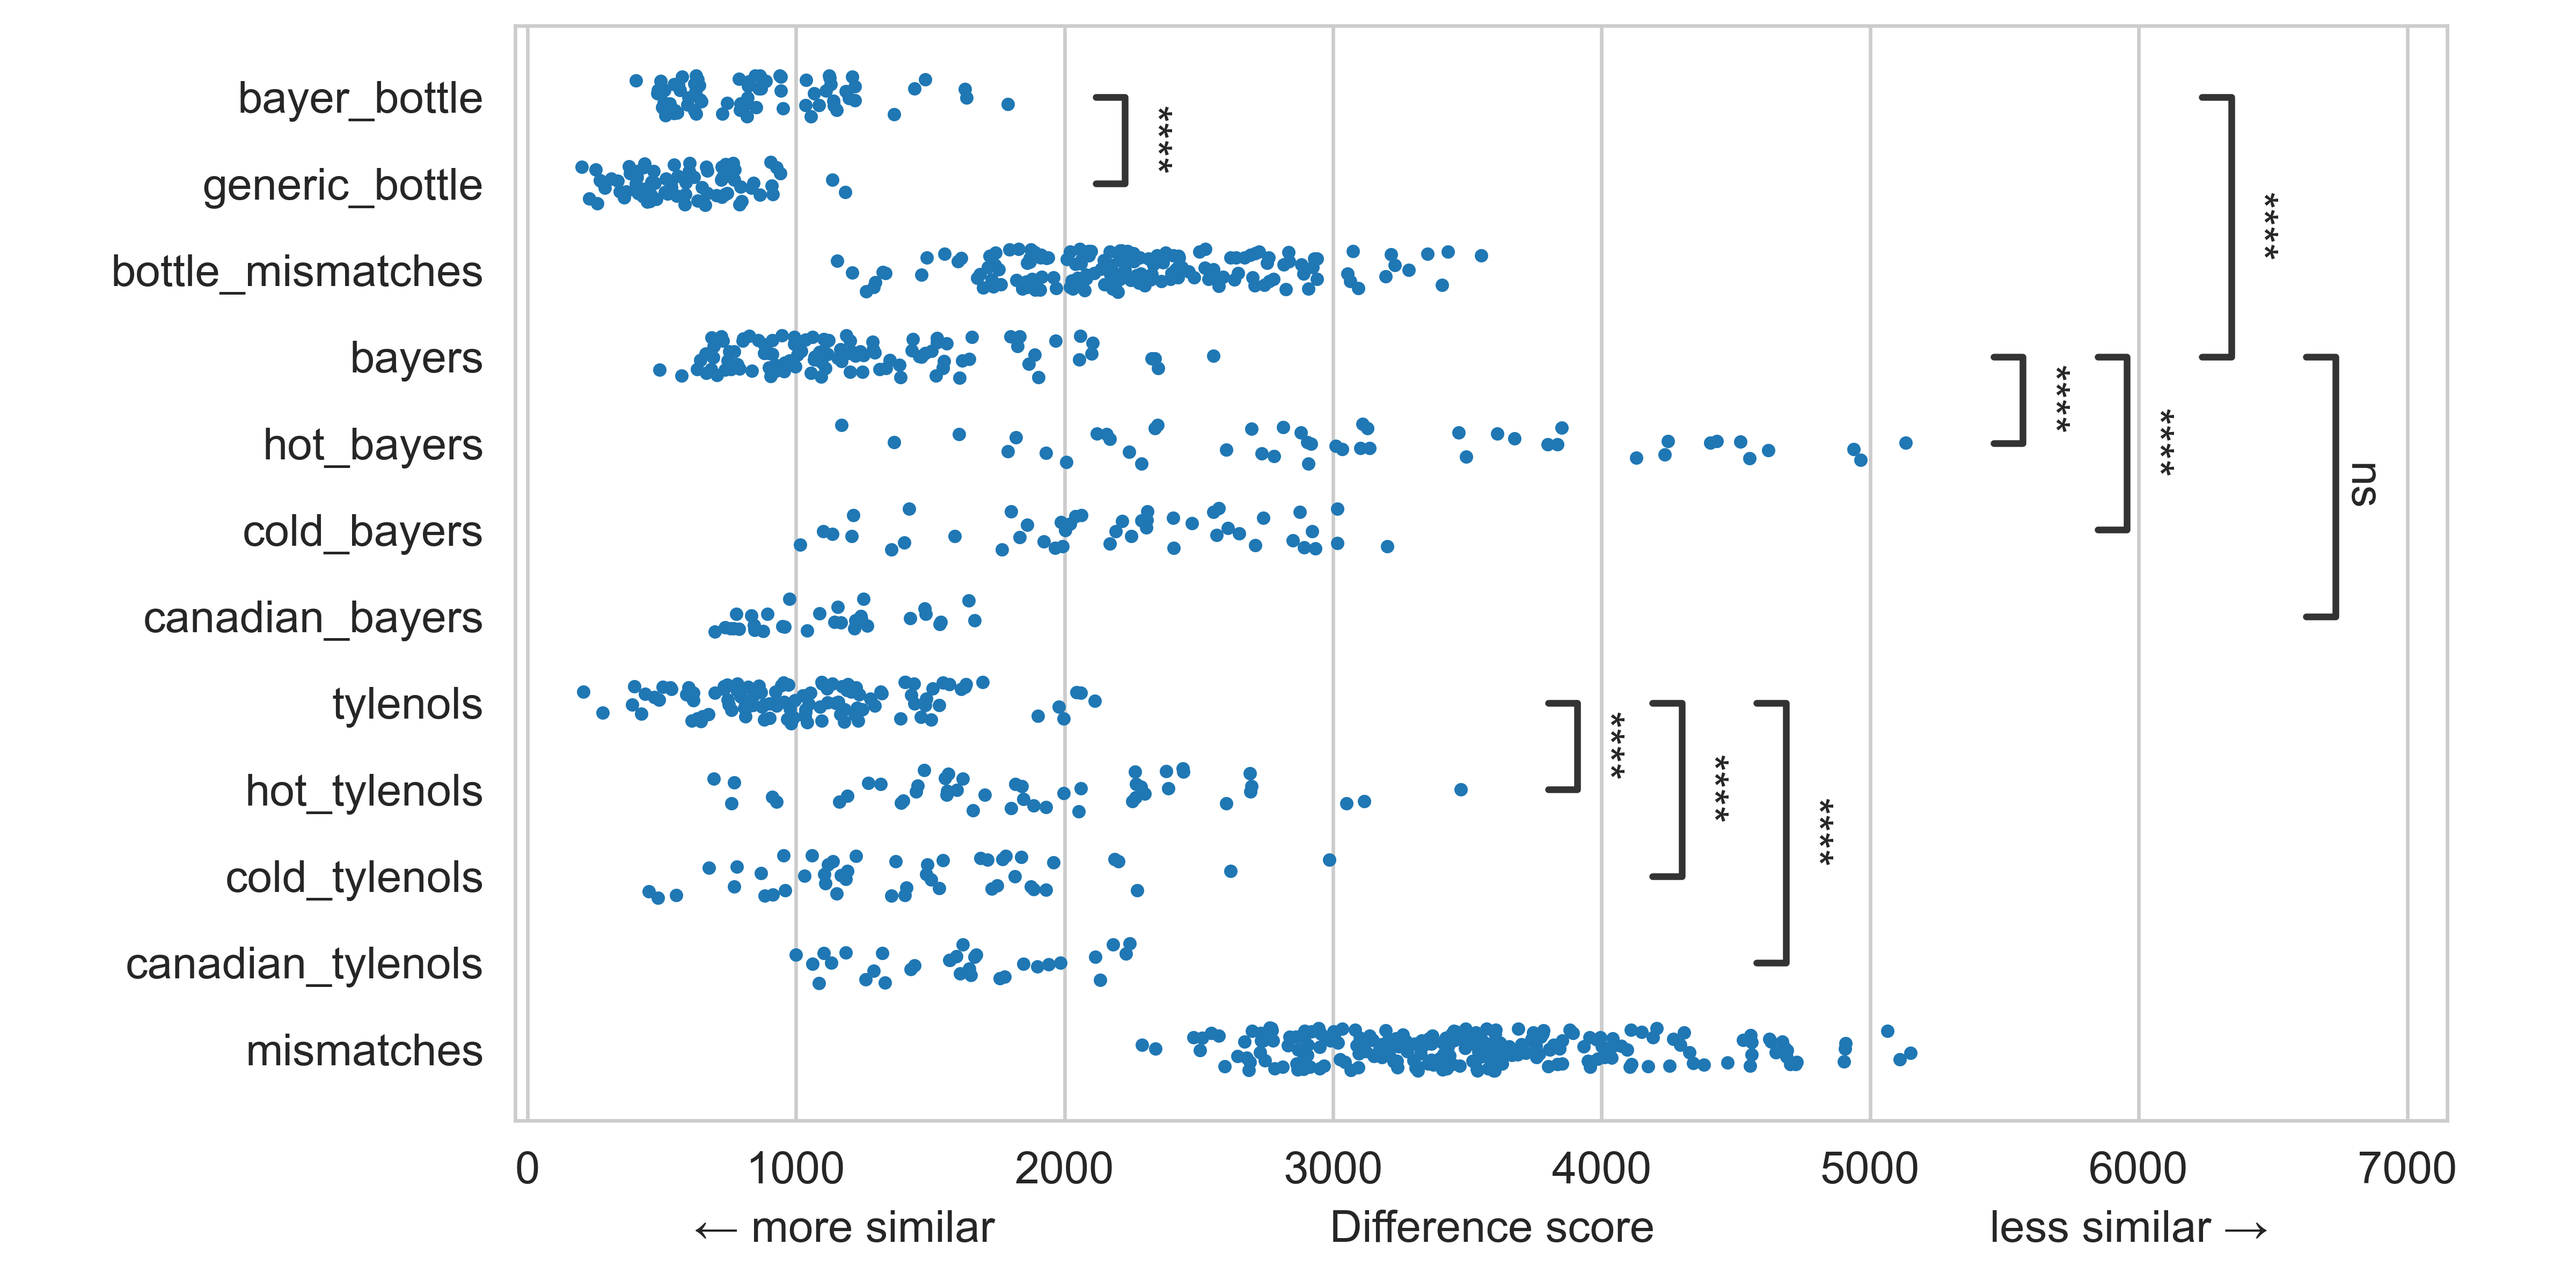
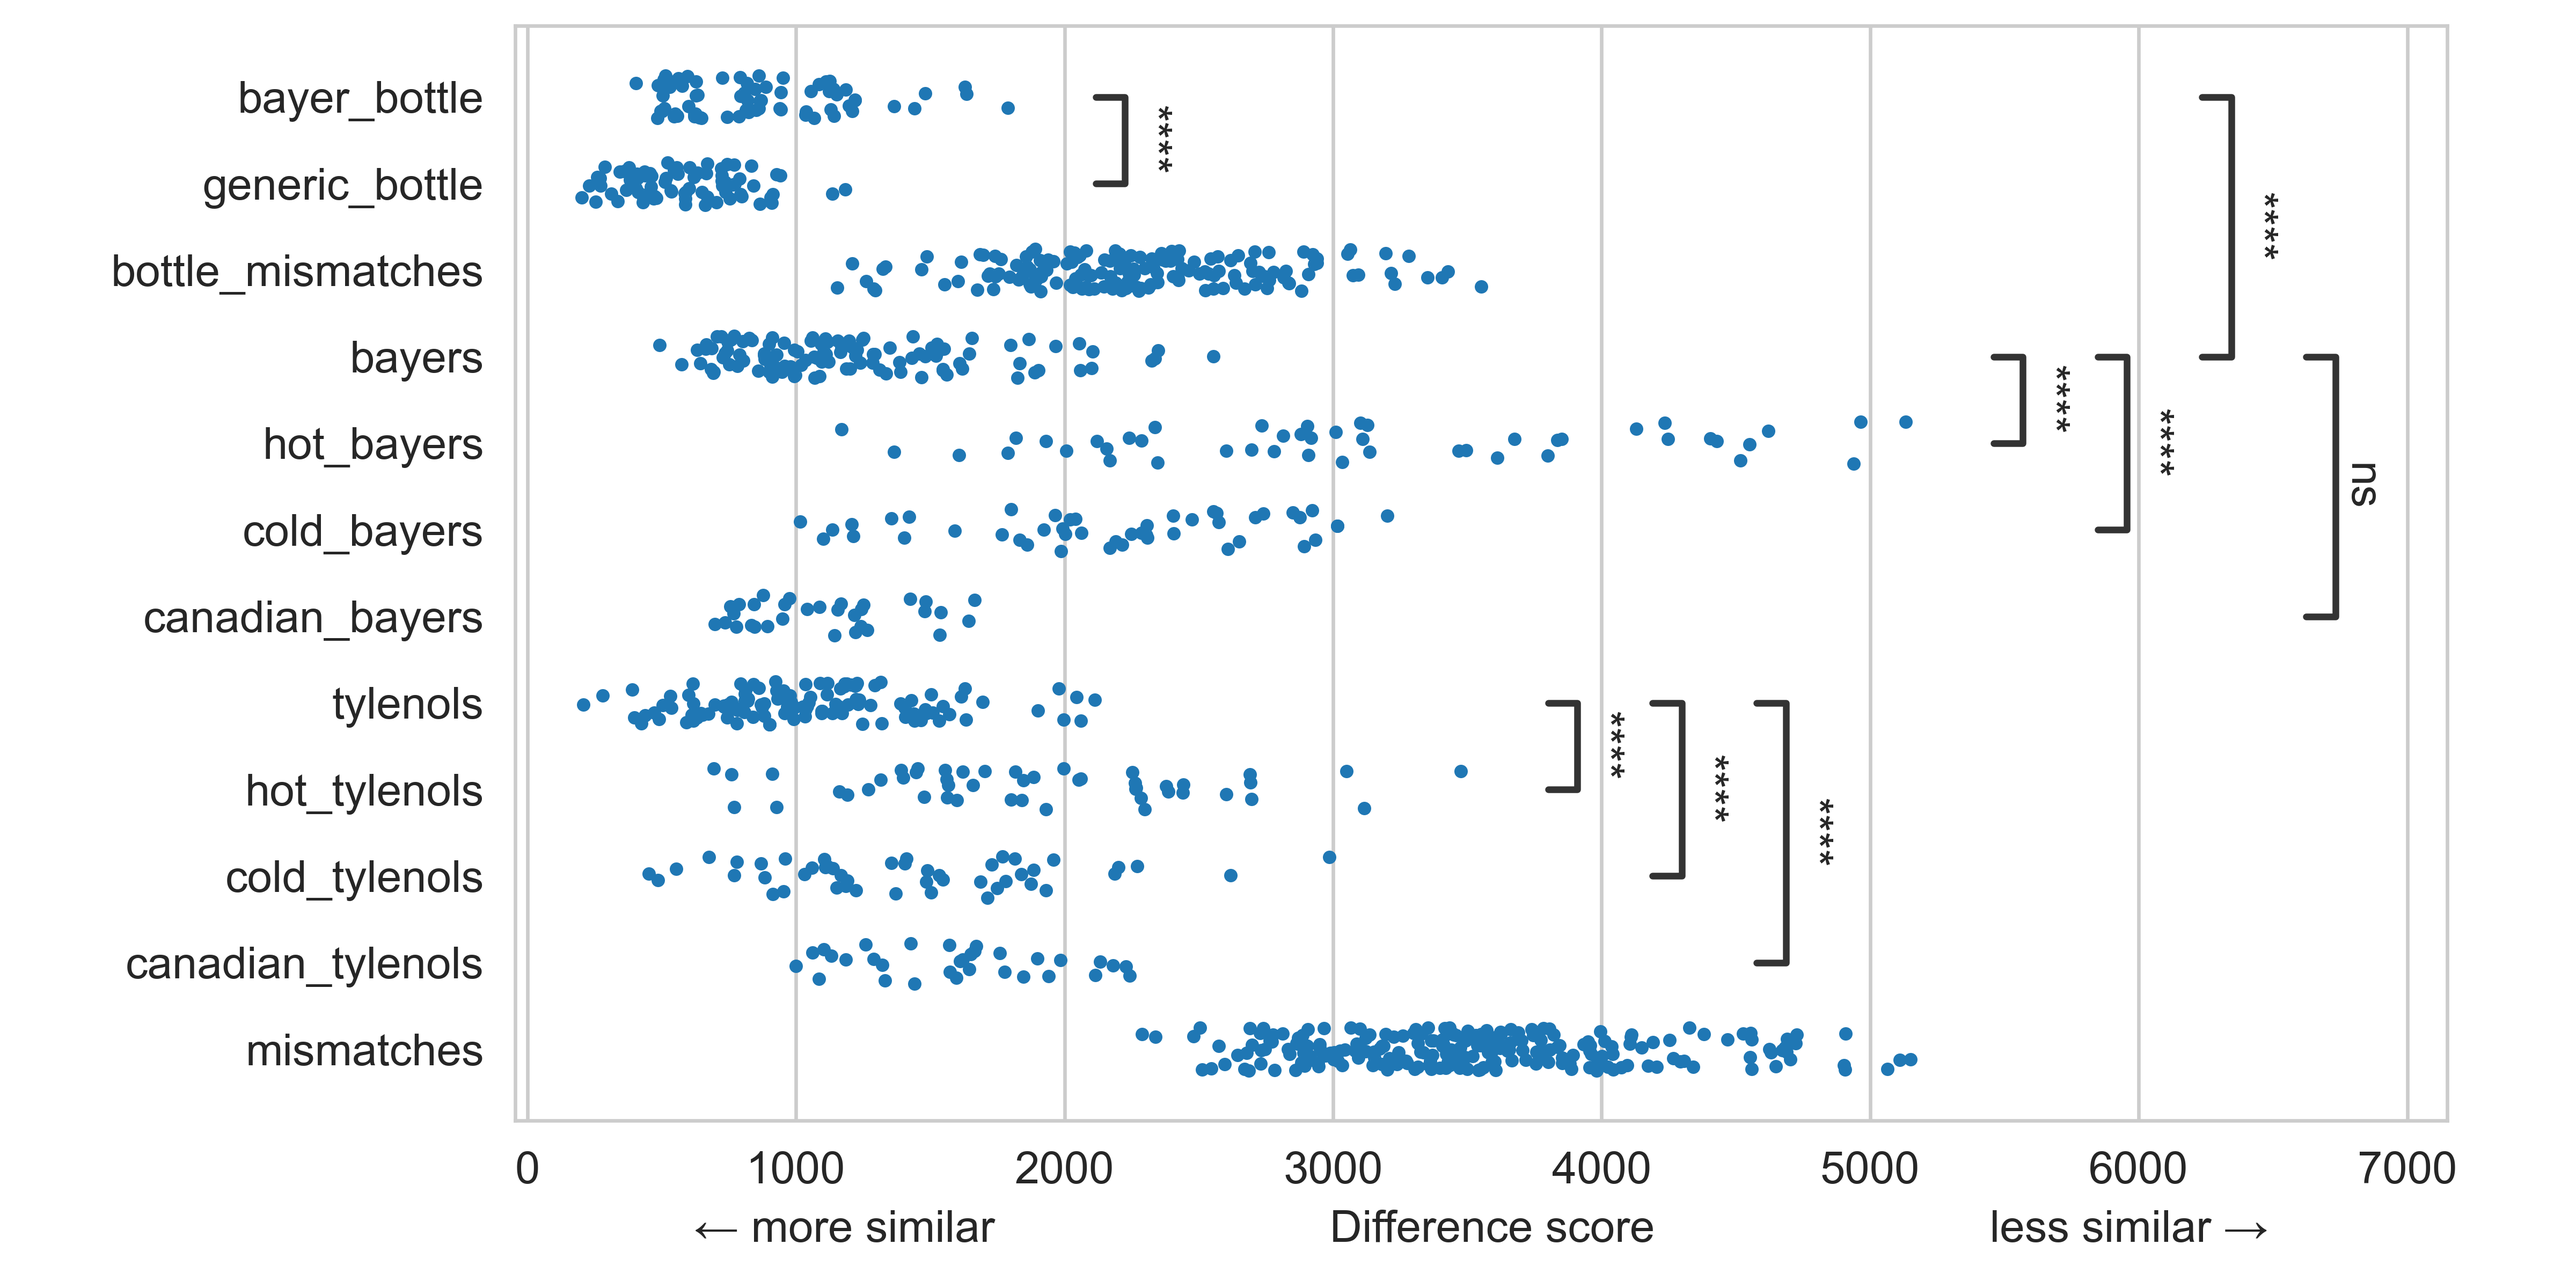
significance plots

diff --git a/df-significance.py b/df-significance.py
@@ -40,25 +40,27 @@ if args.figure == "aspirin":
 			# print(x, i[0], y, i[2], i[4], end=" ")  # full
 			if i[1] == "generic" and i[3] == "generic":
 				print("GENERIC MATCH")
-				uber.append(["Pairs of\ngeneric aspirins", i[4]])
+				uber.append(["Generic aspirin\nGeneric aspirin", i[4]])
 			elif i[1] == "bayer" and i[3] == "bayer":
 				print("BAYER MATCH")
-				uber.append(["bayer_match", i[4]])
+				uber.append(["Bayer aspirin\nBayer aspirin", i[4]])
 			else:
 				print("MISMATCH")
-				uber.append(["mismatch", i[4]])
+				uber.append(["Bayer aspirin\nGeneric aspirin", i[4]])
 	df = pd.DataFrame(uber, columns=["drugtype", "score"])
 	df = df.drop_duplicates()
 
-	order = ["bayer_match", "Pairs of\ngeneric aspirins", "mismatch"]
+	order = ["Bayer aspirin\nBayer aspirin", "Generic aspirin\nGeneric aspirin", "Bayer aspirin\nGeneric aspirin"]
 
-	fig, axs = plt.subplots(figsize=(7.5, 5))
+	fig, axs = plt.subplots(figsize=(7.5, 4))
 	plt.subplots_adjust(left=0.15, right=0.98, top=0.98, bottom=0.12)
 	
 	ax_swarm = sns.stripplot(y="drugtype", x="score", order=order, data=df, log_scale=False, jitter=0.2, size=4)
 	sns.boxplot(y="drugtype", x="score", order=order, data=df, log_scale=False, fill=False, showfliers=False)
 		
-	pairs = [("bayer_match", "Pairs of\ngeneric aspirins"), ]
+	pairs = [("Bayer aspirin\nBayer aspirin", "Generic aspirin\nGeneric aspirin"), 
+			 ("Bayer aspirin\nBayer aspirin", "Bayer aspirin\nGeneric aspirin"),
+			 ("Generic aspirin\nGeneric aspirin", "Bayer aspirin\nGeneric aspirin"),]
 	annotator = Annotator(ax_swarm, pairs, data=df, order=order, y="drugtype", x="score", orient='h')
 	annotator.configure(test='Mann-Whitney', text_format='star')
 	annotator.apply_and_annotate()
